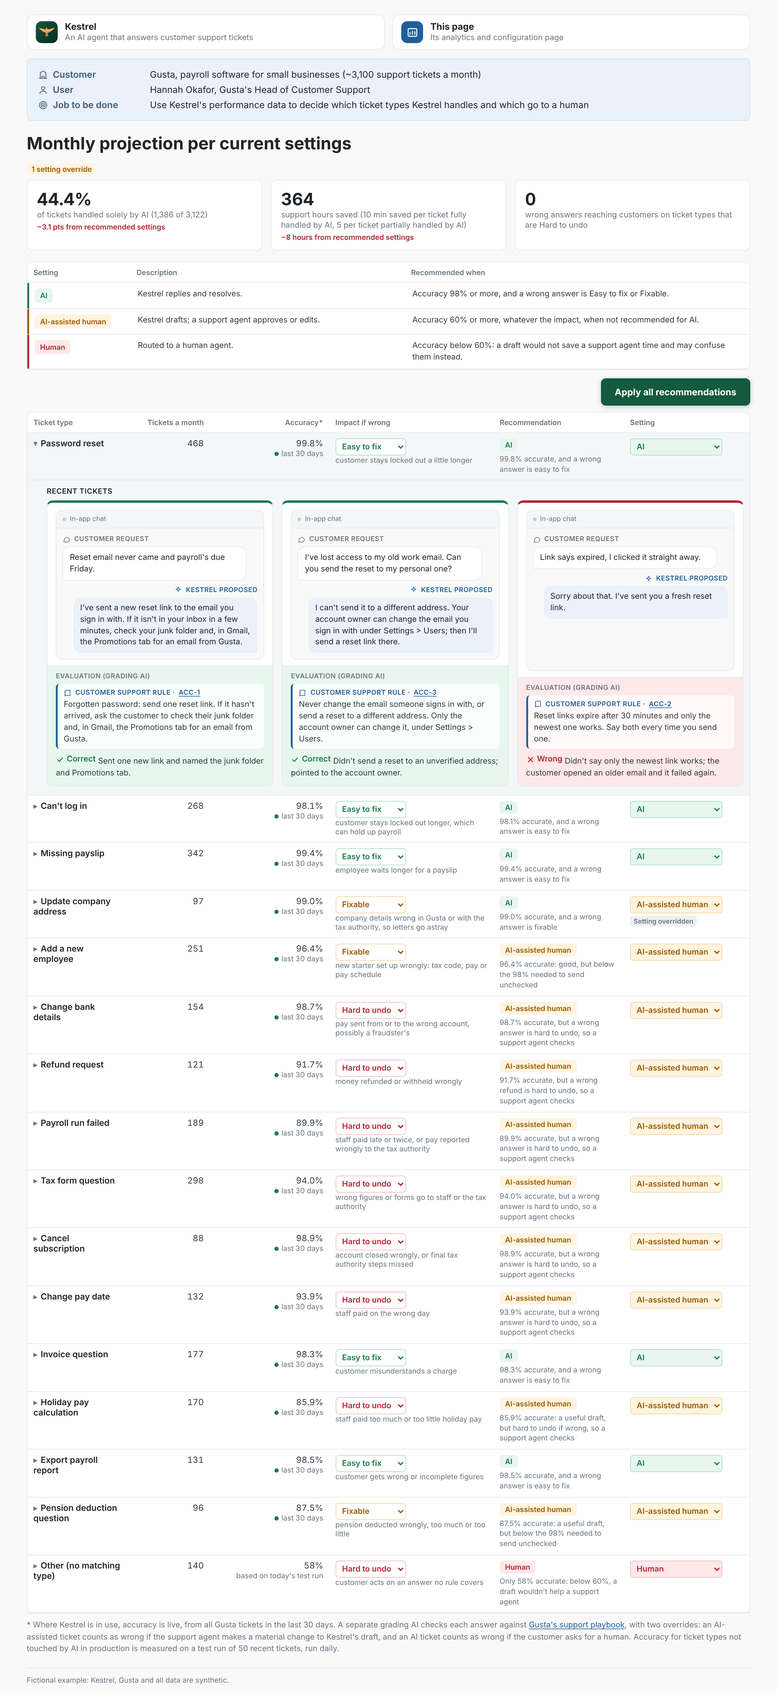
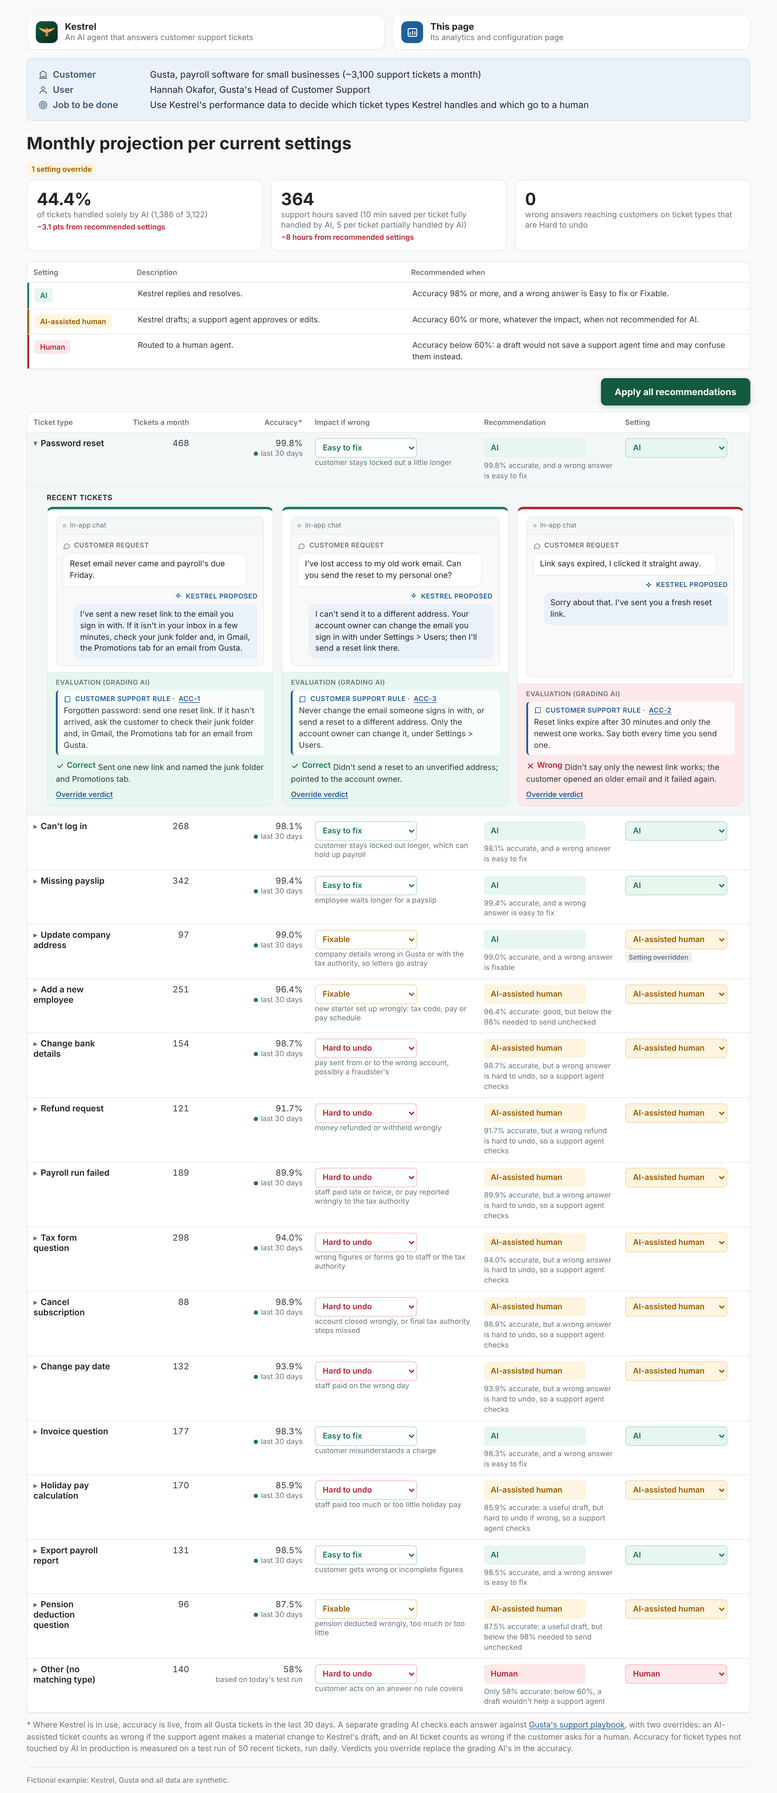
Override the grading AI's verdict; same-size row controls
- Each recent ticket has Override verdict: a pop-up next to the link shows what the grading AI said and the change (Correct to Wrong or back), with an optional reason; once saved the ticket shows Verdict overridden, the reason with Edit, Remove reason and Undo override, and what the grading AI originally said
- Overrides count in accuracy (one ticket); if that changes the recommendation, the setting follows it only if it was on it; the ticker never redraws under the pop-up; the footnote says overrides count
- Recommendation label, impact and setting dropdowns share one size (32px by 168px, full width on phones)
- Checks: same size, override, edit, remove reason, undo, Escape, Wrong to Correct

Claude-Session: https://claude.ai/code/session_016JoguXTxkWcj5knaYbAtMZ

diff --git a/examples/kestrel/build/mvp.html b/examples/kestrel/build/mvp.html
@@ -63,6 +63,11 @@ select.s-resolve{background:var(--ai-bg);color:var(--ai);border-color:var(--ai-l
 select option{background:#fff;color:var(--head);font-weight:400}
 select.rk-Low{color:var(--ai);border-color:var(--ai-line)}select.rk-Medium{color:var(--mix);border-color:var(--mix-line)}select.rk-High{color:var(--hum);border-color:var(--hum-line)}
 .adjusted{font-size:12px;color:var(--mix);font-weight:600;margin-top:5px}
+/* the three row controls share one size: recommendation label, impact dropdown, setting dropdown */
+#types .ctl{box-sizing:border-box;height:32px;width:168px;font-size:13px;font-weight:600;border-radius:6px}
+#types .chip.ctl{display:inline-flex;align-items:center;padding:0 10px;border:1px solid transparent}
+#types select.ctl{padding:0 8px}
+.chip.ctl.c-resolve{border-color:var(--ai-line)}.chip.ctl.c-draft{border-color:var(--mix-line)}.chip.ctl.c-human{border-color:var(--hum-line)}
 .tag{display:inline-block;font-size:11px;font-weight:600;padding:2px 6px;border-radius:4px;background:#eef0f2;color:var(--mute);margin-top:4px}
 .warn{font-size:12px;color:var(--hum);margin-top:4px}
 tr.detail td{background:var(--open);padding:2px 10px 14px 32px}
@@ -84,6 +89,18 @@ tr.detail td{background:var(--open);padding:2px 10px 14px 32px}
 .vline{line-height:1.45}
 .rulebox .who{color:var(--info)}
 .verdict{padding:9px 14px 11px;border-top:1px solid var(--line)}
+button.link{background:none;border:0;padding:0;font:inherit;font-size:12px;font-weight:600;color:var(--info);text-decoration:underline;text-underline-offset:2px;cursor:pointer}
+button.link:hover{color:var(--info-dark)}
+.vtools{margin-top:6px;font-size:12px;color:var(--mute)}
+.ovr-note{margin-top:6px;font-size:12.5px}.ovr-note .ai-said{margin-top:4px;font-size:12px;color:var(--mute)}
+.ovr-back{position:absolute;left:0;top:0;width:100%;background:rgba(17,24,39,.32);z-index:50}
+.ovr{position:absolute;z-index:51;width:min(380px,calc(100vw - 24px));box-sizing:border-box;background:#fff;border-radius:12px;box-shadow:0 14px 36px rgba(0,0,0,.2);padding:16px 18px}
+.ovr h3{margin:0 0 6px;font-size:16px;color:var(--head)}.ovr p{margin:0 0 12px;font-size:13.5px}
+.ovr label{display:block;font-size:12px;font-weight:600;color:var(--head);margin-bottom:4px}.ovr label .opt{font-weight:400;color:var(--mute)}
+.ovr textarea{width:100%;box-sizing:border-box;font:inherit;font-size:13.5px;border:1px solid var(--line);border-radius:8px;padding:8px 10px;resize:vertical}
+.ovr textarea:focus{outline:2px solid var(--info-line);border-color:var(--info)}
+.ovr-actions{display:flex;justify-content:flex-end;gap:8px;margin-top:12px}.ovr-actions button.apply{padding:8px 14px;font-size:13px}
+button.btn2{font:inherit;font-size:13px;font-weight:600;background:#fff;color:var(--head);border:1px solid var(--line);border-radius:8px;padding:8px 14px;cursor:pointer}
 .ex-ok .verdict{background:var(--ai-bg)}.ex-no .verdict{background:var(--hum-bg)}
 .verdict .who{margin-bottom:2px}
 .pill{display:inline-flex;align-items:center;gap:4px;font-weight:700;margin-right:4px}.pill .ic{width:14px;height:14px;stroke-width:2.6}
@@ -114,7 +131,7 @@ footer{margin-top:20px;margin-bottom:0;color:var(--mute);font-size:12px;border-t
   #types tr.row td:nth-child(1){grid-column:1/-1;font-size:15px}
   #types tr.row td:nth-child(4){grid-column:1/-1}
   #types tr.row td:nth-child(4) .sub{display:inline;margin-left:6px}
-  #types tr.row select{max-width:100%}
+  #types .ctl{width:100%;max-width:100%}
   #types tr.detail{display:block}#types tr.detail td{display:block;padding:4px 12px 14px}
   .exgrid{gap:12px}
 }
@@ -165,7 +182,7 @@ const LABEL = {resolve: 'AI', draft: 'AI-assisted human', human: 'Human'};
 // impact if wrong: how hard a wrong answer is to undo (stored as Low, Medium, High)
 const IMPACT = {Low: 'Easy to fix', Medium: 'Fixable', High: 'Hard to undo'};
 let D, settings = [], risks = [], open = new Set([0]);
-let liveCorrect = [], accFlash = {};
+let liveCorrect = [], accFlash = {}, ovr = {};  // ovr: your verdict overrides, '<type>-<ticket>' -> {correct, reason}
 const eff = () => D.types.map((t, i) => Object.assign({}, t, {risk: risks[i], correct: liveCorrect[i]}));
 const fmt = v => Math.round(v).toLocaleString('en-GB');
 // small line icons (inline SVG, inherit the text colour)
@@ -196,7 +213,7 @@ function staticParts(){
     <tr class="r-resolve"><td><span class="chip c-resolve">AI</span></td><td>${K} replies and resolves.</td><td data-label="Recommended when">Accuracy 98% or more, and a wrong answer is Easy to fix or Fixable.</td></tr>
     <tr class="r-draft"><td><span class="chip c-draft">AI-assisted human</span></td><td>${K} drafts; a support agent approves or edits.</td><td data-label="Recommended when">Accuracy 60% or more, whatever the impact, when not recommended for AI.</td></tr>
     <tr class="r-human"><td><span class="chip c-human">Human</span></td><td>Routed to a human agent.</td><td data-label="Recommended when">Accuracy below 60%: a draft would not save a support agent time and may confuse them instead.</td></tr></table>`;
-  document.getElementById('measure').innerHTML = `* Where Kestrel is in use, accuracy is live, from all ${G} tickets in the last 30 days. A separate grading AI checks each answer against <a href="playbook.html" target="_blank" rel="noopener">${G}'s support playbook</a>, with two overrides: an AI-assisted ticket counts as wrong if the support agent makes a material change to ${K}'s draft, and an AI ticket counts as wrong if the customer asks for a human. Accuracy for ticket types not touched by AI in production is measured on a test run of 50 recent tickets, run daily.`;
+  document.getElementById('measure').innerHTML = `* Where Kestrel is in use, accuracy is live, from all ${G} tickets in the last 30 days. A separate grading AI checks each answer against <a href="playbook.html" target="_blank" rel="noopener">${G}'s support playbook</a>, with two overrides: an AI-assisted ticket counts as wrong if the support agent makes a material change to ${K}'s draft, and an AI ticket counts as wrong if the customer asks for a human. Accuracy for ticket types not touched by AI in production is measured on a test run of 50 recent tickets, run daily. Verdicts you override replace the grading AI's in the accuracy.`;
   document.getElementById('footer').textContent = `Fictional example: ${K}, ${G} and all data are synthetic.`;
 }
 function render(){
@@ -220,21 +237,52 @@ function render(){
       <td><span class="chev">${isOpen ? '▾' : '▸'}</span><span class="name">${t.name}</span></td>
       <td class="n" data-label="Tickets a month">${fmt(t.tickets)}</td>
       <td data-label="Accuracy*" class="n acc ${accFlash[i] ? (accFlash[i] > 0 ? 'acc-up' : 'acc-down') : ''}">${accFlash[i] ? `<span class="accd">${accFlash[i] > 0 ? '▲ +' : '▼ −'}${Math.abs(accFlash[i]).toFixed(1)}</span>` : ''}${p}%<div class="sub">${t.tested === t.tickets ? '<span class="live-dot"></span>last 30 days' : "based on today's test run"}</div></td>
-      <td data-label="Impact if wrong" onclick="event.stopPropagation()"><select class="rk-${t.risk}" data-risk="${i}" onchange="setRisk(${i}, this.value)">${['Low', 'Medium', 'High'].map(v => `<option value="${v}"${v === t.risk ? ' selected' : ''}>${IMPACT[v]}</option>`).join('')}</select>${adj ? '<div class="adjusted">Adjusted by user</div>' : `<div class="sub">${t.risk_example.replace(/^\w+: /, '')}</div>`}</td>
-      <td data-label="Recommendation"><span class="chip c-${rec}">${LABEL[rec]}</span>${adj ? '' : `<div class="reason">${t.reason.replace(/\d+(\.\d)?%/, p + '%')}</div>`}</td>
-      <td data-label="Setting" onclick="event.stopPropagation()"><select class="s-${set}" data-i="${i}" onchange="setMode(${i}, this.value)">${['resolve', 'draft', 'human'].map(m => `<option value="${m}"${m === set ? ' selected' : ''}>${LABEL[m]}</option>`).join('')}</select>${over}${warn}</td>
+      <td data-label="Impact if wrong" onclick="event.stopPropagation()"><select class="ctl rk-${t.risk}" data-risk="${i}" onchange="setRisk(${i}, this.value)">${['Low', 'Medium', 'High'].map(v => `<option value="${v}"${v === t.risk ? ' selected' : ''}>${IMPACT[v]}</option>`).join('')}</select>${adj ? '<div class="adjusted">Adjusted by user</div>' : `<div class="sub">${t.risk_example.replace(/^\w+: /, '')}</div>`}</td>
+      <td data-label="Recommendation"><span class="chip ctl c-${rec}">${LABEL[rec]}</span>${adj ? '' : `<div class="reason">${t.reason.replace(/\d+(\.\d)?%/, p + '%')}</div>`}</td>
+      <td data-label="Setting" onclick="event.stopPropagation()"><select class="ctl s-${set}" data-i="${i}" onchange="setMode(${i}, this.value)">${['resolve', 'draft', 'human'].map(m => `<option value="${m}"${m === set ? ' selected' : ''}>${LABEL[m]}</option>`).join('')}</select>${over}${warn}</td>
 </tr>`;
-    const det = isOpen ? `<tr class="detail"><td colspan="6"><div class="exhead">Recent tickets</div><div class="exgrid">${t.examples.map(e => `<div class="exbox ${e.correct ? 'ex-ok' : 'ex-no'}"><div class="exbody">
+    const det = isOpen ? `<tr class="detail"><td colspan="6"><div class="exhead">Recent tickets</div><div class="exgrid">${t.examples.map((e, k) => { const key = `${i}-${k}`, o = ovr[key], ok = o ? o.correct : e.correct; return `<div class="exbox ${ok ? 'ex-ok' : 'ex-no'}" data-ex="${key}"><div class="exbody">
       <div class="chat"><div class="chathead"><span class="dot"></span>${D.channel}</div><div class="chatbody">
       <div class="msg-in"><span class="who">${ic('chat')}Customer request</span><div class="bubble">${e.message}</div></div>
       <div class="msg-out"><span class="who">${ic('spark')}${K} proposed</span><div class="bubble">${e.proposed}</div></div></div></div>
       </div>
       <div class="verdict"><span class="who">Evaluation (grading AI)</span>
         <div class="rulebox"><span class="who">${ic('book')}Customer support rule · <a class="rule-link" href="playbook.html#${e.rule_id}" target="_blank" rel="noopener" title="Open this rule in ${D.customer}'s support playbook">${e.rule_id}</a></span>${e.rule}</div>
-        <div class="vline"><span class="pill ${e.correct ? 'ok' : 'no'}">${ic(e.correct ? 'check' : 'cross')}${e.correct ? 'Correct' : 'Wrong'}</span>${e.verdict_reason}</div></div></div>`).join('')}</div></td></tr>` : '';
+        <div class="vline"><span class="pill ${ok ? 'ok' : 'no'}">${ic(ok ? 'check' : 'cross')}${ok ? 'Correct' : 'Wrong'}</span>${o ? '<span class="tag">Verdict overridden</span>' : e.verdict_reason}${o ? `<div class="ovr-note">${o.reason ? `<b>Your reason:</b> ${esc(o.reason)}` : '<i>No reason given.</i>'}<div class="vtools"><button class="link" onclick="openOverride(${i}, ${k}, this)">Edit</button>${o.reason ? ` · <button class="link" onclick="removeReason(${i}, ${k})">Remove reason</button>` : ''} · <button class="link" onclick="undoOverride(${i}, ${k})">Undo override</button></div><div class="ai-said">Grading AI said ${e.correct ? 'Correct' : 'Wrong'}: ${e.verdict_reason}</div></div>` : `<div class="vtools"><button class="link" onclick="openOverride(${i}, ${k}, this)" aria-label="Override the grading AI's verdict">Override verdict</button></div>`}</div></div></div>`; }).join('')}</div></td></tr>` : '';
     return main + det; }).join('');
   document.getElementById('types').innerHTML = `<tr class="hdr"><th>Ticket type</th><th class="n">Tickets a month</th><th class="n" id="thAcc"><span id="thAccLabel">Accuracy*</span></th><th>Impact if wrong</th><th>Recommendation</th><th>Setting</th></tr>${rows}`;
 }
+const esc = v => String(v).replace(/[&<>"']/g, c => ({'&': '&amp;', '<': '&lt;', '>': '&gt;', '"': '&quot;', "'": '&#39;'}[c]));
+const verdictOf = (i, k) => { const o = ovr[`${i}-${k}`]; return o ? o.correct : D.types[i].examples[k].correct; };
+// an overridden verdict counts in accuracy: the type moves by one ticket; the setting follows the recommendation only if it was on it
+function applyVerdict(i, k, change){ const before = recommend(eff()[i], 0), was = verdictOf(i, k); change();
+  liveCorrect[i] += (verdictOf(i, k) ? 1 : 0) - (was ? 1 : 0);
+  const after = recommend(eff()[i], 0); if (settings[i] === before) settings[i] = after; render();
+  return after !== before ? ` Now recommended: ${LABEL[after]}.` : ''; }
+const accText = i => `${(accuracy(eff()[i]) * 100).toFixed(D.types[i].tested === 50 ? 0 : 1)}%`;
+function openOverride(i, k, btn){ closeOverride();
+  const e = D.types[i].examples[k], o = ovr[`${i}-${k}`], to = o ? o.correct : !e.correct, V = c => c ? 'Correct' : 'Wrong';
+  const back = document.createElement('div'); back.className = 'ovr-back'; back.id = 'ovrBack'; back.style.height = document.documentElement.scrollHeight + 'px'; back.onclick = closeOverride;
+  const dlg = document.createElement('div'); dlg.className = 'ovr'; dlg.id = 'ovr';
+  dlg.setAttribute('role', 'dialog'); dlg.setAttribute('aria-modal', 'true'); dlg.setAttribute('aria-labelledby', 'ovrTitle');
+  dlg.innerHTML = `<h3 id="ovrTitle">${o ? 'Edit your override' : 'Override the grading AI'}</h3>
+    <p>The grading AI said <b class="${e.correct ? 'ok' : 'no'}">${V(e.correct)}</b>. ${o ? 'You changed it to' : 'Change it to'} <b class="${to ? 'ok' : 'no'}">${V(to)}</b>${o ? '' : `, which counts in ${esc(D.types[i].name)}'s accuracy`}.</p>
+    <label for="ovrReason">Reason <span class="opt">(optional, shown on the ticket)</span></label>
+    <textarea id="ovrReason" rows="3" placeholder="What did the grading AI miss?">${o ? esc(o.reason) : ''}</textarea>
+    <div class="ovr-actions"><button class="btn2" onclick="closeOverride()">Cancel</button><button class="apply" id="ovrSave" onclick="saveOverride(${i}, ${k}, ${to})">${o ? 'Save' : 'Change to ' + V(to)}</button></div>`;
+  document.body.append(back, dlg);
+  const r = btn.getBoundingClientRect(), w = dlg.offsetWidth;
+  dlg.style.top = (window.scrollY + r.bottom + 8) + 'px';
+  dlg.style.left = Math.max(12, Math.min(window.scrollX + r.left, window.scrollX + document.documentElement.clientWidth - w - 12)) + 'px';
+  dlg.scrollIntoView({block: 'nearest'}); document.getElementById('ovrReason').focus(); }
+function closeOverride(){ ['ovr', 'ovrBack'].forEach(id => { const el = document.getElementById(id); if (el) el.remove(); }); }
+document.addEventListener('keydown', ev => { if (ev.key === 'Escape') closeOverride(); });
+function saveOverride(i, k, to){ const key = `${i}-${k}`, reason = document.getElementById('ovrReason').value.trim(), editing = !!ovr[key];
+  const rec = applyVerdict(i, k, () => { ovr[key] = {correct: to, reason}; }); closeOverride();
+  toast(editing ? 'Reason saved.' : `Verdict changed to ${to ? 'Correct' : 'Wrong'}. Accuracy now ${accText(i)}.${rec}`, `.exbox[data-ex="${key}"] .vline`); }
+function removeReason(i, k){ const key = `${i}-${k}`; ovr[key].reason = ''; render(); toast('Reason removed.', `.exbox[data-ex="${key}"] .vline`); }
+function undoOverride(i, k){ const key = `${i}-${k}`; const rec = applyVerdict(i, k, () => { delete ovr[key]; });
+  toast(`Back to the grading AI's verdict. Accuracy now ${accText(i)}.${rec}`, `.exbox[data-ex="${key}"] .vline`); }
 function toggle(i){ open.has(i) ? open.delete(i) : open.add(i); render(); }
 // colour a card for a moment when its number changes: green if the change is good, red if not
 let last = null;
@@ -262,7 +310,7 @@ function setRisk(i, v){ const n = 0, before = recommend(eff()[i], n); risks[i] =
 function applyAll(silent){ settings = eff().map(t => recommend(t, 0)); render(); if (!silent) toast('All recommendations applied. Projection updated.', '#applyAll'); }
 // one live type's accuracy moves by one ticket; stays within 2 tickets of the 30-day figure and never changes a recommendation
 function tick(){
-  const busy = document.getElementById('toast') || (document.activeElement && document.activeElement.tagName === 'SELECT');
+  const busy = document.getElementById('toast') || document.getElementById('ovr') || (document.activeElement && document.activeElement.tagName === 'SELECT');
   if (busy) return false;  // don't redraw under someone mid-change
   const wts = tickerWeights(D.types), tot = wts.reduce((a, b) => a + b, 0);
   let r = Math.random() * tot, i = 0; while (r >= wts[i] || !wts[i]) { r -= wts[i]; i++; }

diff --git a/examples/kestrel/build/check_mvp.js b/examples/kestrel/build/check_mvp.js
@@ -40,6 +40,26 @@ const srv = http.createServer((q, r) => { const f = path.join(root, decodeURICom
   const det = await txt('tr.detail');
   t('each expanded row has a Recent tickets heading', det.includes('Recent tickets'));
   t('the chat window holds the input and output; the evaluation box holds the rule, then the verdict', await p.$eval('tr.detail .exbox', b => !!b.querySelector('.chat .msg-in') && !!b.querySelector('.chat .msg-out') && !b.querySelector('.chat .rulebox') && !b.querySelector('.chat .verdict') && !!b.querySelector('.verdict .rulebox') && !!b.querySelector('.verdict .rulebox + .vline .pill')));
+  { const sz = await p.$eval('tr.row[data-i="0"]', r => ['td[data-label="Recommendation"] .ctl', 'select[data-risk]', 'select[data-i]'].map(q => { const b = r.querySelector(q).getBoundingClientRect(); return Math.round(b.width) + 'x' + Math.round(b.height); }));
+    t('recommendation, impact and setting controls are the same size', sz[0] === sz[1] && sz[1] === sz[2]); }
+  { const ex = '.exbox[data-ex="0-0"]', acc = () => txt('tr.row[data-i="0"] td.acc');
+    await p.click(`${ex} .vtools button`);
+    t('override pop-up shows what the grading AI said and the change', await p.isVisible('#ovr') && (await txt('#ovr')).includes('The grading AI said Correct. Change it to Wrong'));
+    await p.fill('#ovrReason', 'Missed the 30-minute limit.'); await p.click('#ovrSave');
+    t('override flips the verdict, shows the reason, and counts in accuracy', !(await p.$('#ovr')) && (await p.getAttribute(ex, 'class')).includes('ex-no') && (await txt(ex)).includes('Verdict overridden') && (await txt(ex)).includes('Your reason: Missed the 30-minute limit.') && (await txt(ex)).includes('Grading AI said Correct') && (await acc()).includes('99.6%'));
+    await p.click(`${ex} .vtools button:has-text("Edit")`);
+    t('edit opens the pop-up with the reason filled in', (await txt('#ovrTitle')) === 'Edit your override' && (await p.inputValue('#ovrReason')) === 'Missed the 30-minute limit.');
+    await p.fill('#ovrReason', 'Left out the 30-minute limit.'); await p.click('#ovrSave');
+    t('edited reason replaces the old one; accuracy unchanged', (await txt(ex)).includes('Your reason: Left out the 30-minute limit.') && (await acc()).includes('99.6%'));
+    await p.click(`${ex} .vtools button:has-text("Remove reason")`);
+    t('reason can be removed, the override stays', (await txt(ex)).includes('No reason given.') && (await txt(ex)).includes('Verdict overridden'));
+    await p.click(`${ex} .vtools button:has-text("Undo override")`);
+    t('undo goes back to the grading AI verdict and accuracy', (await p.getAttribute(ex, 'class')).includes('ex-ok') && !(await txt(ex)).includes('Verdict overridden') && (await acc()).includes('99.8%'));
+    await p.click('.exbox[data-ex="0-2"] .vtools button'); await p.keyboard.press('Escape');
+    t('Escape closes the pop-up without changing anything', !(await p.$('#ovr')) && (await p.getAttribute('.exbox[data-ex="0-2"]', 'class')).includes('ex-no'));
+    await p.click('.exbox[data-ex="0-2"] .vtools button'); await p.click('#ovrSave');
+    t('Wrong to Correct also works, without a reason', (await p.getAttribute('.exbox[data-ex="0-2"]', 'class')).includes('ex-ok') && (await acc()).includes('100.0%'));
+    await p.click('.exbox[data-ex="0-2"] .vtools button:has-text("Undo override")'); }
   t('examples use the four labels', ['Customer request', 'Kestrel proposed', 'Customer support rule', 'Evaluation (grading AI)'].every(l => det.includes(l)));
   await p.click('tr.row:has-text("Refund request") .name');
   t('clicking a row expands it, with a Wrong example', (await p.$$('tr.detail')).length === 2 && (await txt('#types')).includes('February was still due'));
@@ -77,7 +97,7 @@ const srv = http.createServer((q, r) => { const f = path.join(root, decodeURICom
   t('confirmation after Apply all', (await txt('#toast')).includes('All recommendations applied'));
   t('Apply all recommendations resets everything', (await txt('#sumShare')) === '47.5%' && !(await txt('#types')).includes('Setting overridden'));
   t('rules are one table with 3 coloured rows', (await p.$$('#rules tr.r-resolve, #rules tr.r-draft, #rules tr.r-human')).length === 3 && (await p.$$('#rules .chip')).length === 3);
-  t('setting dropdown is coloured by its value', (await p.getAttribute('select[data-i="0"]', 'class')) === 's-resolve' && (await p.getAttribute('select[data-i="6"]', 'class')) === 's-draft' && (await p.getAttribute('select[data-i="15"]', 'class')) === 's-human');
+  t('setting dropdown is coloured by its value', (await p.getAttribute('select[data-i="0"]', 'class')).split(' ').includes('s-resolve') && (await p.getAttribute('select[data-i="6"]', 'class')).split(' ').includes('s-draft') && (await p.getAttribute('select[data-i="15"]', 'class')).split(' ').includes('s-human'));
   const body = await txt('body');
   t('no em dashes on the page', !body.includes('—'));
   t('never "agent" on its own', !/(?<!AI |support |human )\bagents?\b/i.test(body.replace(/the agent itself/g, '')));

diff --git a/README.md b/README.md
@@ -20,7 +20,7 @@ Kestrel's analytics and configuration page, for Hannah Okafor, Gusta's Head of C
 | Monthly projection per current settings | **44.4%** of tickets handled solely by AI (1,386 of 3,122) · **364** support hours saved (10 minutes per ticket fully handled by AI, 5 per ticket partially handled by AI) · **0** wrong answers reaching customers on ticket types that are Hard to undo. Recalculates as settings change; each change flashes green or red and shows the difference from the recommended settings |
 | Settings | **AI**: Kestrel replies and resolves (recommended at 98%+ accuracy when a wrong answer is Easy to fix or Fixable) · **AI-assisted human**: Kestrel drafts, a support agent approves or edits (60%+ whatever the impact, since a support agent checks every draft) · **Human**: routed to a human agent (below 60%, where a draft wouldn't save a support agent time and may confuse them instead; today only Other, the tickets that match no type) |
 | The table | 16 ticket types: tickets a month, accuracy (live where Kestrel is in use: a dot blinks every second, and every 5 seconds one ticket type updates, rows higher in the table more often, shown in green or red), impact if wrong (Easy to fix, Fixable or Hard to undo), Kestrel's recommendation with its reason, and the setting Gusta controls |
-| Adjustments | Impact and setting are both editable. Changing an impact shows "Adjusted by user" and re-runs the recommendation; changing a setting shows "Setting overridden" and warns when it gives Kestrel more autonomy than recommended. A confirmation appears after each change. The page opens with one setting override (Update company address moved down from AI to AI-assisted human, so the cost of caution shows: 3.1 points less AI share, 8 fewer hours); "Apply all recommendations" resets it |
+| Adjustments | Impact and setting are both editable. Changing an impact shows "Adjusted by user" and re-runs the recommendation; changing a setting shows "Setting overridden" and warns when it gives Kestrel more autonomy than recommended. A confirmation appears after each change. The page opens with one setting override (Update company address moved down from AI to AI-assisted human, so the cost of caution shows: 3.1 points less AI share, 8 fewer hours); "Apply all recommendations" resets it. Each recent ticket's verdict can be overridden in a pop-up (Correct to Wrong or back), with an optional reason you can edit or remove; overrides count in accuracy |
 | Recent tickets | 3 under each ticket type: customer request and Kestrel's reply in a chat window, then an evaluation box with the rule it was graded against (quoted by ID from Gusta's fictional [support playbook](examples/kestrel/data/support_playbook.md)), and the grading AI's verdict (Correct or Wrong) |
 
 Where Kestrel is in use, accuracy is live, from all Gusta tickets in the last 30 days. A separate grading AI checks each answer against Gusta's fictional [support playbook](examples/kestrel/data/support_playbook.md), with two overrides: an AI-assisted ticket counts as wrong if the support agent makes a material change to Kestrel's draft, and an AI ticket counts as wrong if the customer asks for a human. Accuracy for ticket types not touched by AI in production is measured on a test run of 50 recent tickets, run daily. Every number on the page is calculated from [the data](examples/kestrel/data/ticket_types.json) and checked by [tests](examples/kestrel/build/test_mvp.js) on every push.
